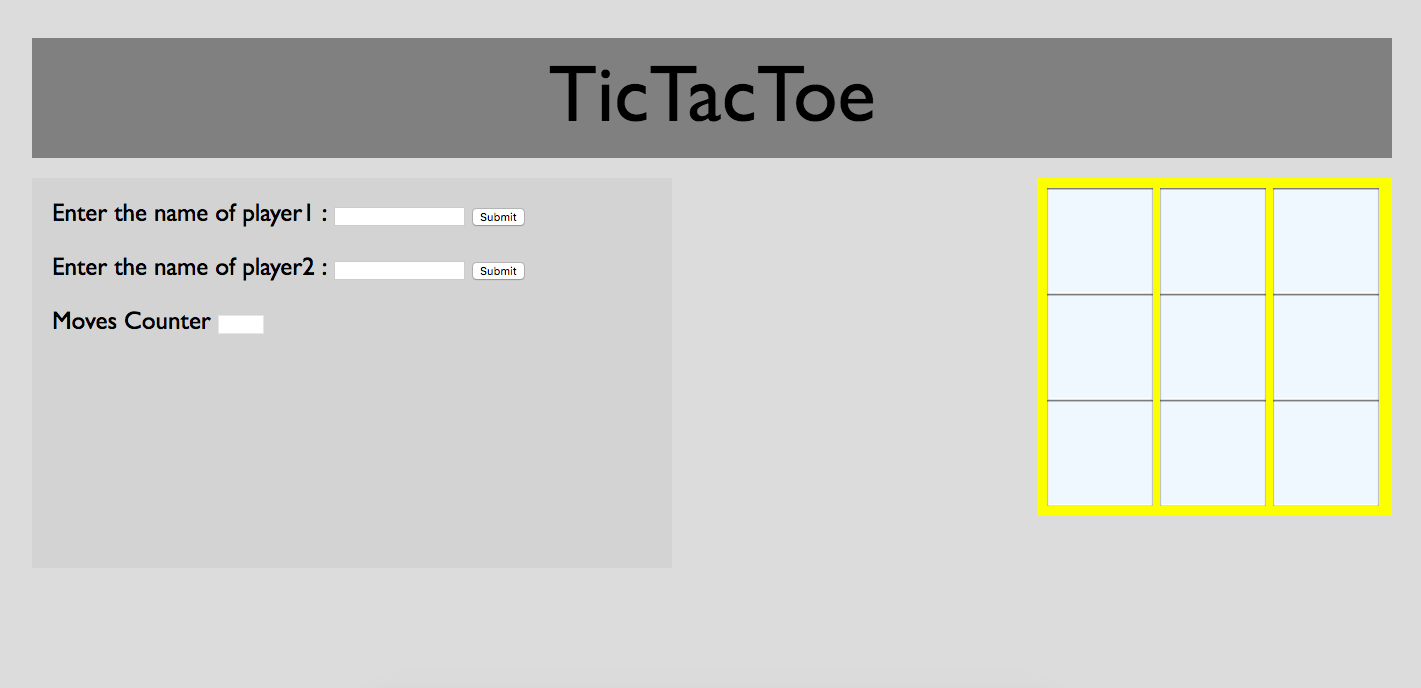
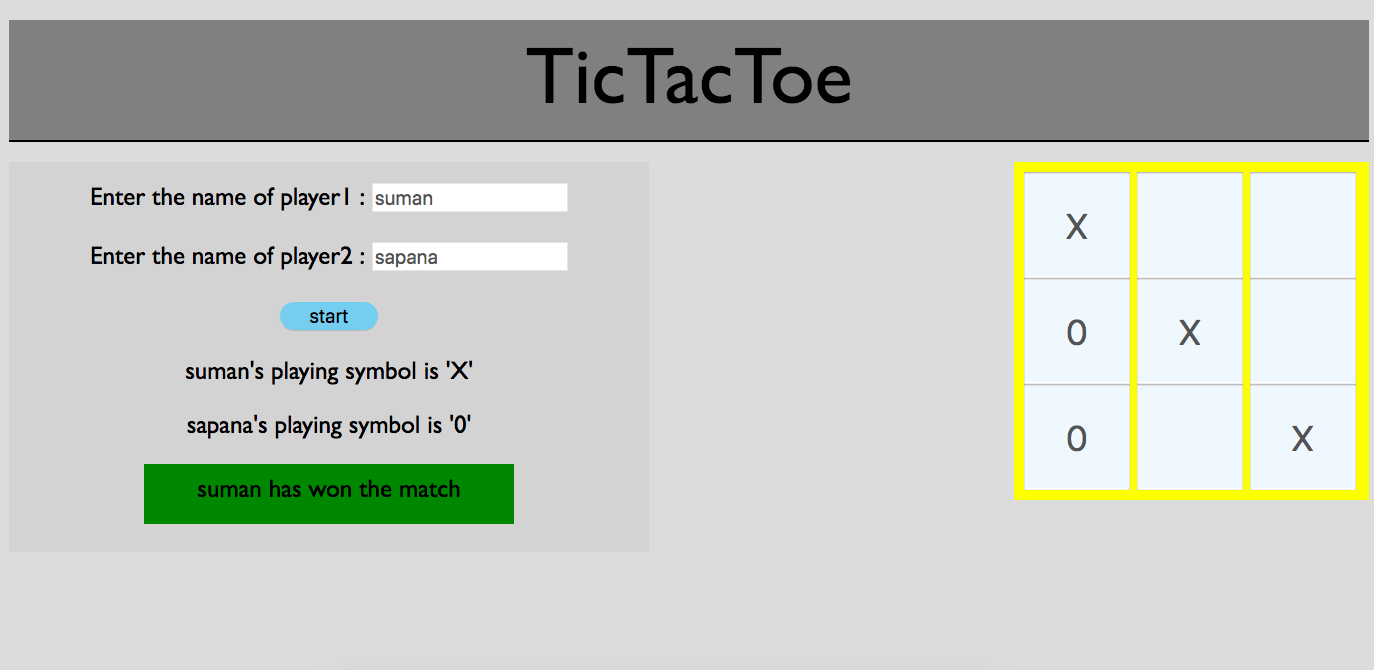
Modified all files and added new image

diff --git a/main.js b/main.js
@@ -1,8 +1,9 @@
-let player1;
-let player2;
+let player1 = 'firstPlayer';
+let player2 = 'secondPlayer';
 let player1Moves = [];
 let player2Moves = [];
 const wininigConditions = [['1', '2', '3'], ['4', '5', '6'], ['7', '8', '9'], ['1', '5', '9'], ['1', '4', '7'], ['2', '5', '8'], ['3', '5', '7'], ['3', '6', '9']]
+let turnCounter = 0;
 
 const isSubset = function (wininigConditions, moves) {
   return wininigConditions.some((x) => {
@@ -13,50 +14,89 @@ const isSubset = function (wininigConditions, moves) {
 };
 
 const declareWinner = function (symbol) {
-  let moves = [];
-  let player;
-  if (symbol == 'x') {
-    moves = player1Moves;
-    player = player1
+  let symbolDetails = {
+    'X': {
+      moves: player1Moves,
+      player: player1,
+    },
+    '0': {
+      moves: player2Moves,
+      player: player2,
+    },
   };
-  if (symbol == 'o') {
-    moves = player2Moves;
-    player = player2;
-  };
+  let player = symbolDetails[symbol]['player'];
+  let moves = symbolDetails[symbol]['moves'];
 
+  if (!isSubset(wininigConditions, moves) && player1Moves.length == 5) {
+    document.getElementById('turn').innerHTML = " Match is drawn ";
+    document.getElementById('turn').setAttribute("style", "background-color:green");
+  }
   if (isSubset(wininigConditions, moves)) {
-    document.getElementById('winner').innerHTML = player + '  has won the match';
-    window.stop();
+    document.getElementById('turn').innerHTML = player + '  has won the match';
+    document.getElementById('turn').setAttribute("style", "background-color:green");
+    for (let id = 1; id <= 9; id++) {
+      document.getElementById(id.toString()).setAttribute('disabled', 'disabled');
+    }
   }
 }
 
 const moveToggler = function (id) {
-  let value = +document.getElementById('counter').value;
-  document.getElementById('counter').value = value + 1;
-  if (value % 2) {
+  let value = turnCounter;
+  let isOdd = value % 2;
+  if (isOdd) {
     player2Moves.push(id);
-    return 'o';
+    return '0';
   }
   player1Moves.push(id);
-  return 'x';
+  return 'X';
 }
 
+const firstTurn = function () {
+  document.getElementById('turn').innerHTML = player1 + "'s turn ";
+};
+
+const whoseTurn = function (symbol) {
+  if (symbol == 'X')
+    document.getElementById('turn').innerHTML = player2 + "'s turn ";
+  if (symbol == '0')
+    document.getElementById('turn').innerHTML = player1 + "'s turn ";
+};
+
 const getPlayer1 = function () {
-  player1 = document.getElementById('player1').value;
-  document.getElementById('x').innerHTML = "your symbol is 'x' ";
+  let name = document.getElementById('player1').value;
+  if (name != '')
+    player1 = name;
+  document.getElementById('X').innerHTML = player1 + "'s playing symbol is 'X' ";
   document.getElementById('player1').setAttribute('disabled', 'disabled');
 }
 
 const getPlayer2 = function () {
-  player2 = document.getElementById('player2').value;
-  document.getElementById('o').innerHTML = "your symbol is 'o' ";
+  let name = document.getElementById('player2').value;
+  if (name != '')
+    player2 = name;
+  document.getElementById('0').innerHTML = player2 + "'s playing symbol is '0' ";
   document.getElementById('player2').setAttribute('disabled', 'disabled');
-
 }
 
 const updateBoard = function (id) {
   let symbol = moveToggler(id);
+  whoseTurn(symbol);
   document.getElementById(id).value = symbol;
   document.getElementById(id).setAttribute('disabled', 'disabled');
+  turnCounter += 1;
   declareWinner(symbol);
+}
+
+const setFocus = function () {
+  if (event.keyCode == 13) {
+    document.getElementById('player2').focus();
+  }
+};
+
+const showBoard = function () {
+  getPlayer1();
+  getPlayer2();
+  firstTurn();
+  document.getElementById('board').style.visibility = 'visible';
+  document.getElementById('turn').style.visibility = 'visible';
 }

diff --git a/index.html b/index.html
@@ -7,18 +7,21 @@
   <script src="main.js"></script>
 </head>
 
-<body>
+<body onLoad="document.getElementById('player1').focus()">
   <div>
     <div class="header">TicTacToe</div>
     <div class="player_Details">
-      Enter the name of player1 : <input type="text" id="player1"> <input type="submit" onclick="getPlayer1()"><br>
-      <p id="x"></p>
-      Enter the name of player2 : <input type="text" id="player2"> <input type="submit" onclick="getPlayer2()"><br>
-      <p id="o"></p>
-      Moves Counter <input id="counter" type='number' readonly style="width:40px; text-align: center"><br>
+      Enter the name of player1 : <input type="text" id="player1" onkeydown="setFocus()"><br><br>
+      Enter the name of player2 : <input type="text" id="player2" onkeydown="setFocus();"><br><br>
+      <button class="start_button" onclick="showBoard()">start</button>
+      <p id="X"></p>
+      <p id="0"></p>
       <p id="winner"></p>
+      <!-- <input id="turn" readonly>
+  -->
+      <div id="turn" style="background-color: lightgrey"></div>
     </div>
-    <div class="board">
+    <div id="board">
       <input id="1" class="playButton" onclick="updateBoard('1')">
       <input id="2" class="playButton" onclick="updateBoard('2')">
       <input id="3" class="playButton" onclick="updateBoard('3')"><br>

diff --git a/main.css b/main.css
@@ -6,9 +6,12 @@ background-color: gainsboro;
   padding: 20px;
 }
 
+input{
+  font-size: 20px;
+}
 .playButton{
 text-align: center;
-  font-size: 25px;
+  font-size: 35px;
   width: 100px;
  height: 100px;
  background-color: aliceblue;
@@ -19,10 +22,12 @@ text-align: center;
   padding: 10px;
   font-size: 80px;
   height: 100px;
+  border-bottom: 2px solid black;
   background-color:grey;
 }
 
 .player_Details{
+text-align: center;
 padding: 20px;
 width: 600px;
 height: 350px;
@@ -31,10 +36,33 @@ margin-top: 20px;
 background-color: lightgrey;
 }
 
-.board{
+#board{
   margin-top: 20px;
   float: right;
   width: 335px;
   padding: 10px;
   background-color: yellow;
+  visibility: hidden;
+}
+
+.start_button{
+  font-size: 20px;
+  width: 100px;
+  height: 30px; 
+  text-align: center;
+  border-radius: 30px;
+  background-color : skyblue;
+}
+
+#turn{
+  color: black;
+ text-align: center;
+  height: 40px;
+  padding: 10px;
+  margin-left: 115px;
+  width : 350px;
+}
+
+.playButton:hover{
+  cursor : pointer;
 }
